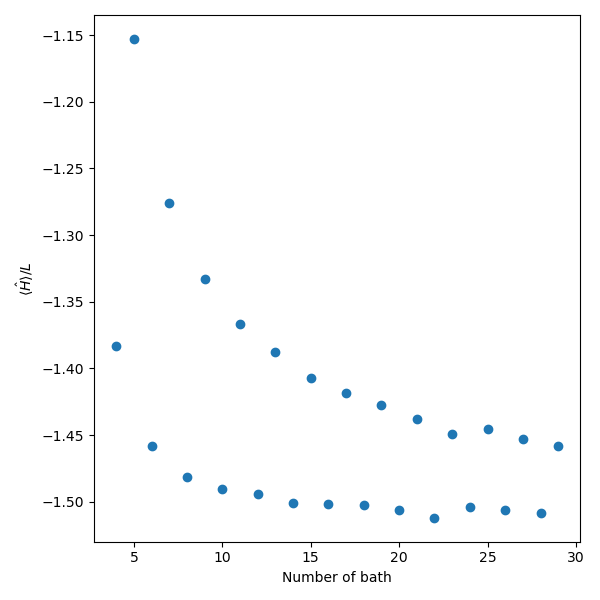
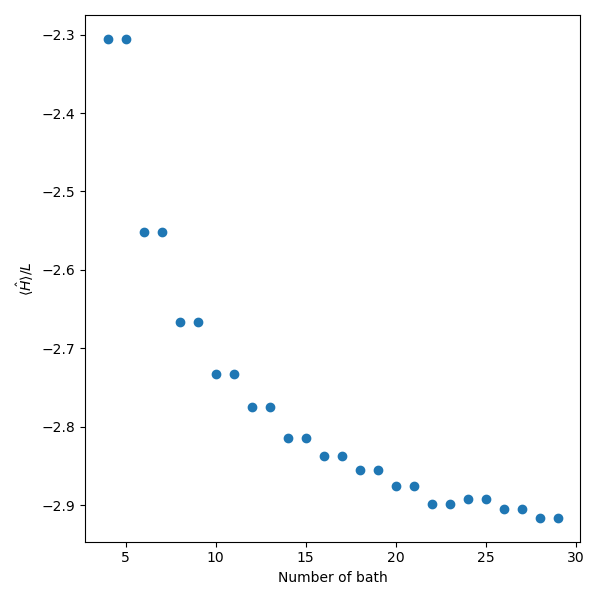
obsidian

diff --git a/Obsidian_Vault/Meeting construction AIM/06-05-2026.md b/Obsidian_Vault/Meeting construction AIM/06-05-2026.md
@@ -10,11 +10,13 @@ Le gap entre le bain de valence et de conduction est d'environ $1.75$ eV. J'ai r
 ![[img_050626_5.png]]
 On remarque que dans tous les cas, la partie bain est diagonale avec des états complètement remplis dans les bandes de valence et complètement vides dans les bandes vides. Au sein de l'impureté, l'occupation semble toujours être de $1$, avec une dégénérescence dans ce sous-espace là. En effet, l'énergie du fondamentale en fonction du nombre de site (avec des GS différents au sein de l'impureté, cf bain de 11 et les autres bains dans le dossier DMRG de CuO) n'est pas modifiée selon l'état initial (qui devrait rester dans leur secteur de symétrie respectif s'il y avait dégénérescence) :
 ![[img_050626_6.png]]
-Par ailleurs, on remarque que le fondamental est relativement différent entre un nombre pair de sites de bain et un nombre impair. Cela pourrait s'expliquer par le fait qu'il y ait une asymétrie entre le nombre de sites de valence $(N/2)$ et de conduction $(N/2 + 1)$. Il faudrait regarder l'entropie à deux sites pour vérifier cela, avec une asymétrie de l'intrication.
+où on a divisé le fondamental par le nombre de cœurs de valence.
+
 Par ailleurs, la bond dimension du triplet/singlet est autour de 100 (avec un temps d'exécution de quelques secondes), alors que celui de l'état random est beaucoup plus important, de l'ordre de 1000 (avec un temps d’exécution de plusieurs dizaines de secondes, voir minutes).
 ## Question :
-1. Discuter sur cette asymétrie entre sites pairs et impairs.
-2. implémentation natural orbitals ?
+1. implémentation natural orbitals ?
+2. implémentation état de cœur dans l'impureté ?
+3. calcul diag exact (Léo) ?
 ## Objectifs :
 - Débuguer code Slater dp
 - Calculer l'entropie à deux sites pour le CuO
